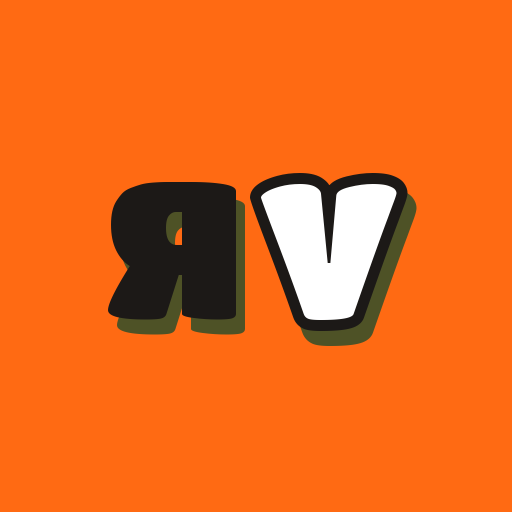
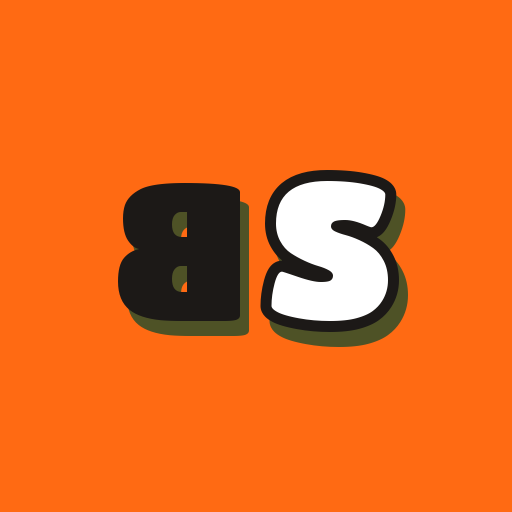
Rename the game to BackSlang
Swaps the ReVerse name for BackSlang across the page, home screen app,
logo, title, Daily mode and share text. New icon: a backward black B and
a white outlined S. The big title shrinks a little on narrow phones so
the longer name fits.

Claude-Session: https://claude.ai/code/session_01UXSyVniC2nR7ZZAoqzu2wF

Changed region(s): [[0.1875, 0.3125, 0.8125, 0.6875]]

diff --git a/docs/index.html b/docs/index.html
@@ -4,11 +4,11 @@
 <meta name="apple-mobile-web-app-capable" content="yes">
 <meta name="mobile-web-app-capable" content="yes">
 <meta name="apple-mobile-web-app-status-bar-style" content="black-translucent">
-<meta name="apple-mobile-web-app-title" content="ReVerse">
+<meta name="apple-mobile-web-app-title" content="BackSlang">
 <link rel="manifest" href="manifest.webmanifest">
 <link rel="apple-touch-icon" href="icon-180.png">
 <link rel="icon" href="icon-192.png">
-<title>ReVerse</title>
+<title>BackSlang</title>
 <!-- Fonts (SIL Open Font License) are served from this site, so the first paint does not wait on another domain.
      Titan One: chunky bubble letters for the logo, headings and buttons. Fredoka: body text. -->
 <link rel="preload" href="fonts/titan-one-latin.woff2" as="font" type="font/woff2" crossorigin>
@@ -162,7 +162,7 @@ button:focus-visible,input:focus-visible{outline:3px solid var(--a);outline-offs
 
 /* title, setup */
 .title{text-align:center;padding:10px 0 4px}
-.title .huge{font-size:clamp(3rem,15vw,4.4rem);font-weight:700}
+.title .huge{font-size:clamp(2.2rem,14vw,4.4rem);font-weight:700}
 .title .mirror{display:block;transform:scaleX(-1);color:var(--a)}
 /* Bubble letters: a dark outline drawn behind the fill, and a solid brownish-green offset shadow. */
 .title .huge,.code{-webkit-text-stroke:.09em var(--ink);paint-order:stroke fill;text-shadow:.05em .08em 0 var(--shadow)}
@@ -534,7 +534,7 @@ function topbar(){
 let quitArmed=false;
 // "Free" screens can be left at any time. Leaving an active game asks first (menu, tap twice to quit).
 const freeScreen = () => ["title","setup","daily","solo"].includes(S.screen) || (S.screen==="online" && !O.code);
-const logoHTML = () => `<button class="logo" id="homeBtn" aria-label="${S.screen==="title"?"ReVerse":"Back to the home screen"}">${S.screen==="title"?"":`<span class="bk" aria-hidden="true">‹</span>`}<span>Re</span><span class="w">Verse</span></button>`;
+const logoHTML = () => `<button class="logo" id="homeBtn" aria-label="${S.screen==="title"?"BackSlang":"Back to the home screen"}">${S.screen==="title"?"":`<span class="bk" aria-hidden="true">‹</span>`}<span>Back</span><span class="w">Slang</span></button>`;
 function helpHTML(){
   if(S.screen==="daily") return `<ul><li>One word a day, the same for everyone. A new one comes at midnight New York time.</li>
       <li>Listen to it backward as often as you like. Slow it down if it helps.</li>
@@ -629,9 +629,9 @@ function afterBet(){
 
 const VIEWS = {
   title(){
-    return { cls:"center", html:`<div class="title"><h1 class="huge">ReVerse</h1><h1 class="huge mirror" aria-hidden="true">ReVerse</h1></div>
+    return { cls:"center", html:`<div class="title"><h1 class="huge">BackSlang</h1><h1 class="huge mirror" aria-hidden="true">BackSlang</h1></div>
       <span class="chip" id="wcount" style="${WORD_COUNT?"":"visibility:hidden"}">${WORD_COUNT?WORD_COUNT.toLocaleString():"0,000"} words and phrases</span><p class="dim" style="max-width:22em">Say it. Hear it backward. Say <i>that</i>. Your teammate hears it flipped and has to guess.</p>
-      ${ONLINE_OK?`<button class="btn daily-cta" id="daily">DAILY REVERSE</button><button class="btn ghost" id="solo">1 player · free play</button><button class="btn" id="playOnline">PLAY ON EVERYONE'S PHONE</button><button class="btn ghost" id="play">Pass one phone around</button>`:`<button class="btn" id="play">PLAY</button>`}`,
+      ${ONLINE_OK?`<button class="btn daily-cta" id="daily">DAILY BACKSLANG</button><button class="btn ghost" id="solo">1 player · free play</button><button class="btn" id="playOnline">PLAY ON EVERYONE'S PHONE</button><button class="btn ghost" id="play">Pass one phone around</button>`:`<button class="btn" id="play">PLAY</button>`}`,
       bind(){ $("play").onclick=()=>{ ac(); SFX.go(); ensureMic(); go("setup"); };
         if($("daily")) $("daily").onclick=()=>{ ac(); SFX.go(); openDaily(); };
         if($("solo")) $("solo").onclick=()=>{ ac(); SFX.go(); openSolo(); };
@@ -815,7 +815,7 @@ function finish(correct){
 }
 
 
-// ---------- Daily ReVerse: one word a day, same for everyone ----------
+// ---------- Daily BackSlang: one word a day, same for everyone ----------
 const D = { speed:(()=>{ try{ const v=+localStorage.getItem("bw-speed2"); return [1,0.7,0.5].includes(v)?v:0.7; }catch(e){ return 0.7; } })(), info:null, rev:null, fwd:null, err:"", loading:false, busy:false, draft:"", local:{}, listens:0, copied:false };
 const DKEY="bw-daily", DSTATS="bw-daily-stats";
 const dload = (k,d) => { try{ return JSON.parse(localStorage.getItem(k)) || d; }catch(e){ return d; } };
@@ -877,12 +877,12 @@ async function dailyGuess(text){
 }
 function shareText(st){
   const sq = st.guesses.map(g=>g.ok?"🟩":"🟥").join("");
-  return `ReVerse Daily #${D.info.n} ${st.won?st.guesses.length:"X"}/${D.info.maxGuesses}\n${sq}  🔁${st.listens||D.listens}\n${location.origin}`;
+  return `BackSlang Daily #${D.info.n} ${st.won?st.guesses.length:"X"}/${D.info.maxGuesses}\n${sq}  🔁${st.listens||D.listens}\n${location.origin}`;
 }
 
 VIEWS.daily = function(){
-  if(D.loading || (!D.info && !D.err)) return { cls:"center", key:"load", html:`<span class="kicker">Daily ReVerse</span><h2 class="big-t">Loading today's word…</h2><div class="dots"><i></i><i></i><i></i></div>` };
-  if(D.err && !D.rev) return { cls:"center", key:"err", html:`<span class="kicker">Daily ReVerse</span><p class="err">${esc(D.err)}</p><button class="btn" id="retry">TRY AGAIN</button><button class="link" id="home">Back</button>`,
+  if(D.loading || (!D.info && !D.err)) return { cls:"center", key:"load", html:`<span class="kicker">Daily BackSlang</span><h2 class="big-t">Loading today's word…</h2><div class="dots"><i></i><i></i><i></i></div>` };
+  if(D.err && !D.rev) return { cls:"center", key:"err", html:`<span class="kicker">Daily BackSlang</span><p class="err">${esc(D.err)}</p><button class="btn" id="retry">TRY AGAIN</button><button class="link" id="home">Back</button>`,
     bind(){ $("retry").onclick=()=>{ D.info=null; openDaily(); }; $("home").onclick=()=>go("title"); } };
   const st=dstate(), max=D.info.maxGuesses, left=max-st.guesses.length;
   if(!st.listens && D.listens) st.listens=D.listens;
@@ -892,7 +892,7 @@ VIEWS.daily = function(){
   const hints = st.hints.map(h=>`<div class="hint">💡 ${esc(h)}</div>`).join("");
   if(st.over){
     const s=dstats();
-    return { cls:"center", key:"over", html:`<span class="kicker">Daily ReVerse #${D.info.n}</span>
+    return { cls:"center", key:"over", html:`<span class="kicker">Daily BackSlang #${D.info.n}</span>
       <h2 class="big-t">${st.won?(st.guesses.length===1?"First try!":"Got it!"):"Not today"}</h2>
       <div class="word sm">${esc(st.word)}</div>
       <div class="lrow"><button class="play sm" id="fwd" aria-label="Play forward">${ICON.play}</button><button class="play sm" id="pl" aria-label="Play backward">${ICON.rew}</button></div>
@@ -910,7 +910,7 @@ VIEWS.daily = function(){
       } };
   }
   const L=D.local, mine=L.mine;
-  return { cls:"center", html:`<span class="kicker">Daily ReVerse #${D.info.n} · ${esc(D.info.cat)}</span>
+  return { cls:"center", html:`<span class="kicker">Daily BackSlang #${D.info.n} · ${esc(D.info.cat)}</span>
     <div class="lrow"><button class="play sm" id="pl" aria-label="Play backward">${ICON.rew}</button><p class="dim">Today's word, played backward. Listen as much as you want.</p></div>
     ${speedSeg()}
     <div class="row" style="gap:10px"><button class="btn ghost" id="rec">${activeRec?"■ Stop":"🎙 Say it back"}</button><button class="btn ghost" id="flip" ${mine?"":"disabled"}>🔄 Flip mine</button></div>
@@ -1195,7 +1195,7 @@ const ONLINE_VIEWS = {
       :`<div class="card center"><p class="dim">${esc(oname(s.hostId))} is setting up: ${st.mode==="points"?"Points":"Casual"} · ${esc(st.category)} · ${st.source==="opponent"?"other team picks":"random words"}</p></div>${waitCard("Waiting for the host","")}`}`,
       bind(){
         document.querySelectorAll("[data-team]").forEach(b=>b.onclick=()=>{ SFX.tap(); send({type:"team",team:+b.dataset.team}); });
-        $("share").onclick=async()=>{ try{ if(navigator.share){ await navigator.share({title:"ReVerse",text:"Join my game. Room code "+O.code,url:link}); return; } }catch(e){ return; }
+        $("share").onclick=async()=>{ try{ if(navigator.share){ await navigator.share({title:"BackSlang",text:"Join my game. Room code "+O.code,url:link}); return; } }catch(e){ return; }
           try{ await navigator.clipboard.writeText(link); $("share").textContent="Link copied"; }catch(e){ $("share").textContent=link; } };
         if(host){
           const set=x=>send({type:"settings",settings:Object.assign({},st,x)});

diff --git a/README.md b/README.md
@@ -1,4 +1,4 @@
-# ReVerse
+# BackSlang
 
 A 2v2 party game, played on everyone's own phone or by passing one phone around. The Speaker says a word, hears it backward, then says the backward version from memory. That copy is flipped and played to the Guesser, who has to guess the original word.
 
@@ -14,7 +14,7 @@ The service worker serves the page network first (falling back to the cached cop
 or when offline) and everything else from cache, refreshed in the background. Bump `CACHE` in
 `docs/sw.js` when its precache list changes.
 
-## Daily ReVerse
+## Daily BackSlang
 
 One word a day (midnight New York time), the same for everyone. The Worker picks it from
 `src/daily-words.js` (built by `tools/daily.py`, not served publicly), voices it with
